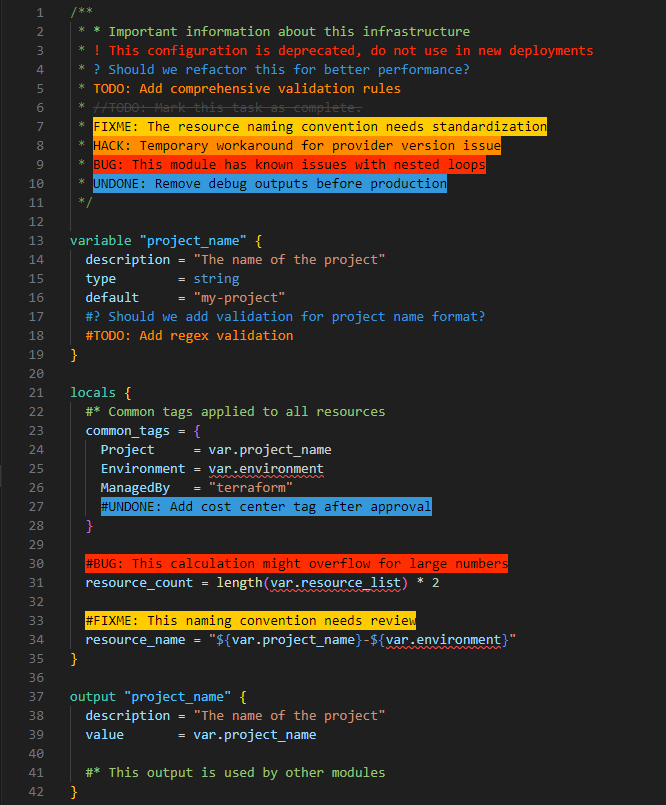
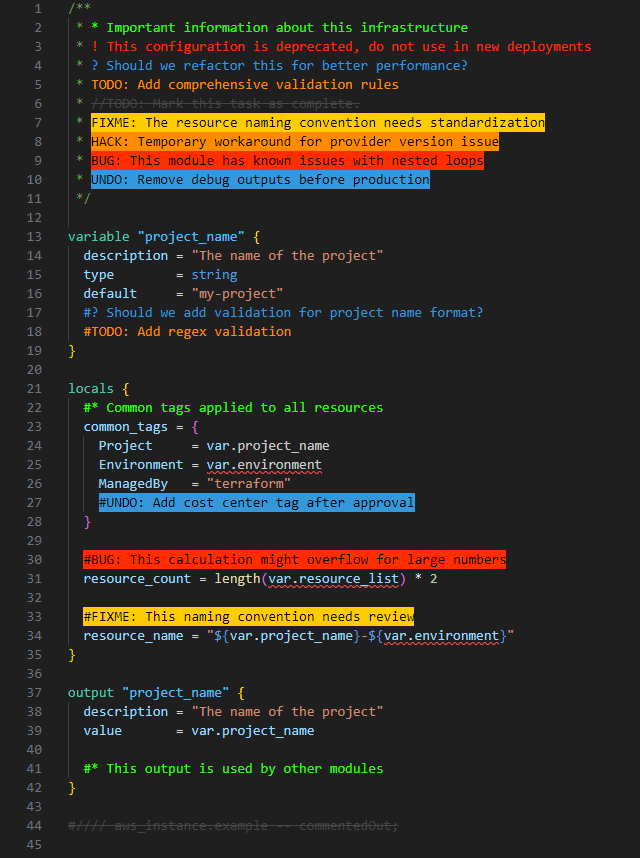
feat: change UNDONE to UNDO tag and bump to v1.2.1
- Rename tag for more concise naming

diff --git a/CHANGELOG.md b/CHANGELOG.md
@@ -1,5 +1,10 @@
 # Change Log
 
+## [1.2.1] (2025-01-XX)
+### Changes
+* **Tag name update**: Changed "UNDONE" tag to "UNDO" for more concise naming
+* **Documentation updates**: Updated README, CHANGELOG, and CONTRIBUTING files to reflect the tag name change
+
 ## [1.2.0] (2025-01-XX)
 ### Features
 * **OpenVSC support**: Added compatibility with OpenVSC marketplace and editor
@@ -21,12 +26,12 @@
 ### Improvements
 * **Language discovery**: Extension now automatically discovers and supports all installed language extensions
 * **Performance**: Improved language registration efficiency with dynamic configuration updates
-* **Enhanced tag set**: Added FIXME, HACK, BUG, UNDONE tags with background colors for better visibility (contributed by [@IgerNolan](https://github.com/IgerNolan))
+* **Enhanced tag set**: Added FIXME, HACK, BUG, UNDO tags with background colors for better visibility (contributed by [@IgerNolan](https://github.com/IgerNolan))
 
 ### Configuration
 * Added `better-byte.languages` setting (array of language IDs, empty for all languages)
 * Updated configuration title to "Better Byte configuration"
-* Updated default tags: TODO (uppercase), FIXME, HACK, BUG, UNDONE with background colors (contributed by [@IgerNolan](https://github.com/IgerNolan))
+* Updated default tags: TODO (uppercase), FIXME, HACK, BUG, UNDO with background colors (contributed by [@IgerNolan](https://github.com/IgerNolan))
 
 ### Documentation
 * Updated README with comprehensive feature list and configuration examples

diff --git a/README.md b/README.md
@@ -10,7 +10,7 @@
 - **FIXME** (yellow background) - Issues that need fixing
 - **HACK** (orange background) - Temporary workarounds
 - **BUG** (red background) - Known bugs and issues
-- **UNDONE** (blue background) - Things to be removed/reverted
+- **UNDO** (blue background) - Things to be removed/reverted
 - **Commented-out code** (gray strikethrough) - Code that you're scared to delete
 
 **Works with:** OpenTofu, YAML, JSON, Python, Terraform, TypeScript, and 50+ other languages.
@@ -89,7 +89,7 @@ You can configure Better Byte in User or Workspace settings.
     "backgroundColor": "#FF2D00"
   },
   {
-    "tag": "UNDONE",
+                "tag": "UNDO",
     "color": "#000000",
     "backgroundColor": "#3498DB"
   }

diff --git a/CONTRIBUTING.md b/CONTRIBUTING.md
@@ -147,7 +147,7 @@ Create test files in different languages to verify functionality:
  * FIXME: The resource naming convention needs standardization
  * HACK: Temporary workaround for provider version issue
  * BUG: This module has known issues with nested loops
- * UNDONE: Remove debug outputs before production
+ * UNDO: Remove debug outputs before production
  */
 
 variable "project_name" {
@@ -165,7 +165,7 @@ locals {
     Project     = var.project_name
     Environment = var.environment
     ManagedBy   = "terraform"
-    #UNDONE: Add cost center tag after approval
+    #UNDO: Add cost center tag after approval
   }
   
   #BUG: This calculation might overflow for large numbers
